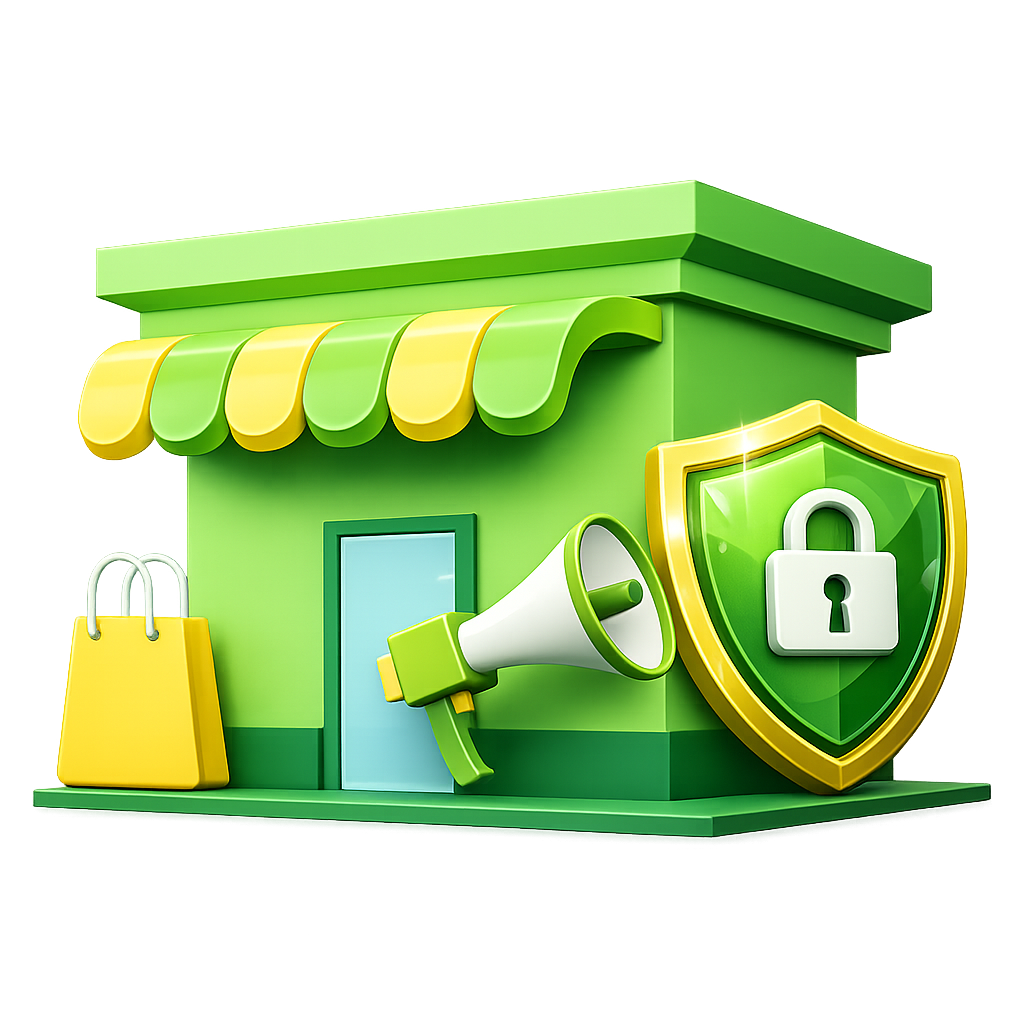
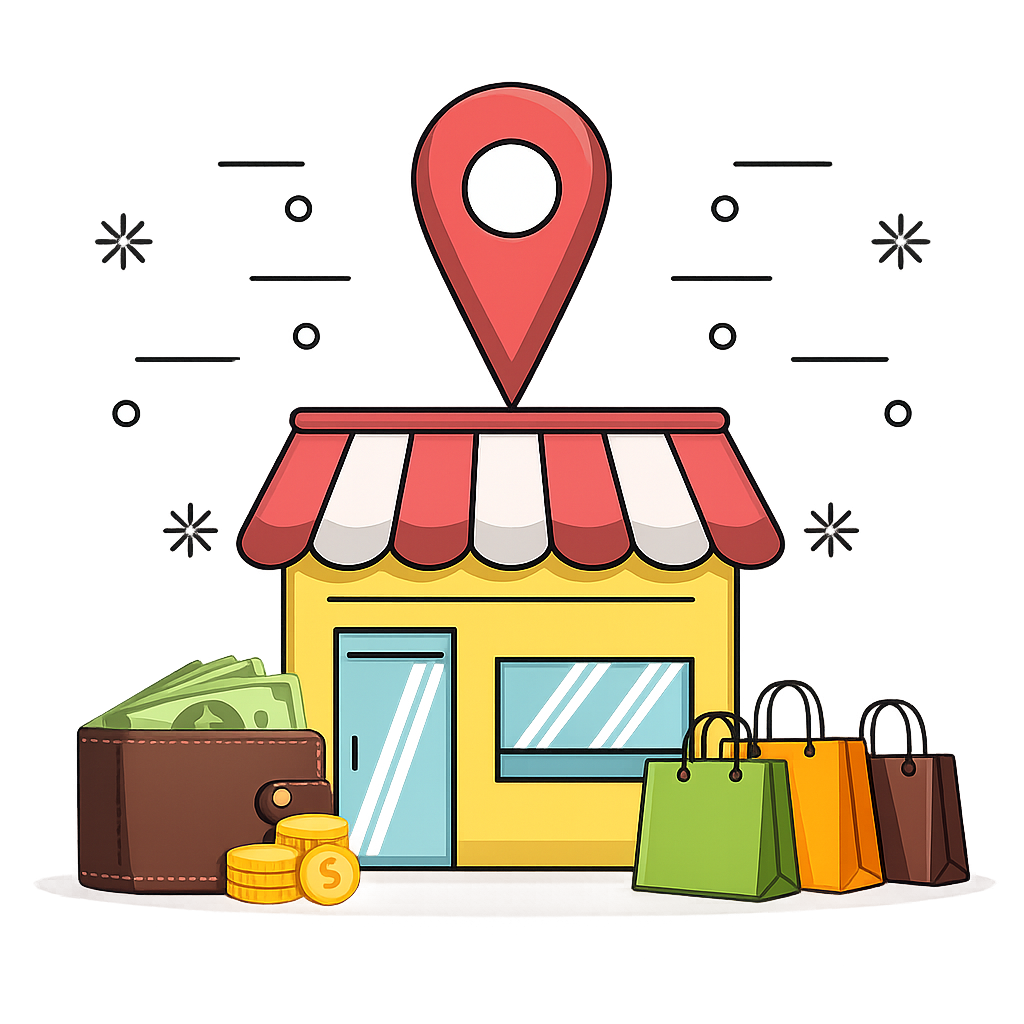
add: refactor on-boarding screen UI and update route middleware navigation

diff --git a/lib/features/on_boarding/presentation/view/screens/on_boarding_screen.dart b/lib/features/on_boarding/presentation/view/screens/on_boarding_screen.dart
@@ -1,10 +1,15 @@
 import 'package:flutter/material.dart';
+import 'package:flutter_screenutil/flutter_screenutil.dart';
 import 'package:wafir_mobile/config/constants/shared_preferences_keys.dart';
 import 'package:wafir_mobile/config/dependency_injection.dart';
 import 'package:wafir_mobile/core/resource/manager_assets.dart';
 import 'package:wafir_mobile/core/resource/manager_strings.dart';
 import 'package:wafir_mobile/core/storage/local/shared_preferences_controller.dart';
-import 'package:wafir_mobile/features/on_boarding/presentation/view/widgets/custom_page_view_content.dart';
+import 'package:wafir_mobile/core/resource/manager_colors.dart';
+import 'package:wafir_mobile/core/resource/manager_sizes.dart';
+import 'package:wafir_mobile/core/widgets/custom_button.dart';
+import 'package:wafir_mobile/core/widgets/custom_spacing.dart';
+import 'package:wafir_mobile/features/on_boarding/presentation/view/widgets/custom_dot_indicator.dart';
 import 'package:wafir_mobile/routes/routes.dart';
 
 class OnBoardingScreen extends StatefulWidget {
@@ -15,25 +20,67 @@ class OnBoardingScreen extends StatefulWidget {
 }
 
 class _OnBoardingScreenState extends State<OnBoardingScreen> {
-  late PageController _pageController;
+  final _pages = [
+    (
+      image: ManagerAssets.onBoardingImageOne,
+      title: ManagerStrings.titleOnBoardingOne,
+      subTitle: ManagerStrings.subTitleOnBoardingOne,
+      topText: ManagerStrings.next,
+      bottomText: ManagerStrings.skip,
+    ),
+    (
+      image: ManagerAssets.onBoardingImageTwo,
+      title: ManagerStrings.titleOnBoardingTwo,
+      subTitle: ManagerStrings.subTitleOnBoardingTwo,
+      topText: ManagerStrings.next,
+      bottomText: ManagerStrings.previous,
+    ),
+    (
+      image: ManagerAssets.onBoardingImageThree,
+      title: ManagerStrings.titleOnBoardingThree,
+      subTitle: ManagerStrings.subTitleOnBoardingThree,
+      topText: ManagerStrings.login,
+      bottomText: ManagerStrings.loginAsGuest,
+    ),
+  ];
 
-  @override
-  void initState() {
-    _pageController = PageController(
-      initialPage: 0,
-    );
-    super.initState();
-  }
-
-  @override
-  void dispose() {
-    _pageController.dispose();
-    super.dispose();
-  }
+  int _currentIndex = 0;
 
   void _viewOnBoarding() {
     instance<SharedPreferencesController>()
         .setData(SharedPreferencesKeys.viewOnBoarding, true);
+  }
+
+  void _goNext() {
+    final isLast = _currentIndex == _pages.length - 1;
+    if (isLast) {
+      _viewOnBoarding();
+      Navigator.pushNamedAndRemoveUntil(
+          context, Routes.homeScreen, (route) => false);
+    } else {
+      setState(() {
+        _currentIndex++;
+      });
+    }
+  }
+
+  void _handleHorizontalDrag(DragEndDetails details) {
+    final velocity = details.primaryVelocity ?? 0;
+    if (velocity < 20) {
+      // Swipe left: Next
+      if (_currentIndex < _pages.length - 1) {
+        setState(() {
+          _currentIndex++;
+        });
+      }
+    } else if (velocity > -20) {
+      // Swipe right: Previous
+      if (_currentIndex > 0) {
+        setState(() {
+          _currentIndex--;
+        });
+      }
+    }
   }
 
   @override
@@ -41,73 +88,92 @@ class _OnBoardingScreenState extends State<OnBoardingScreen> {
     return Scaffold(
       appBar: AppBar(
         automaticallyImplyLeading: false,
-        title: const Text(
-          'وافر',
-        ),
+        title: const Text('وافر'),
       ),
-      body: PageView(
-        controller: _pageController,
-        // physics: const NeverScrollableScrollPhysics(),
-        children: [
-          CustomPageViewContent(
-            controller: _pageController,
-            image: ManagerAssets.onBoardingImageOne,
-            title: ManagerStrings.titleOnBoardingOne,
-            subTitle: ManagerStrings.subTitleOnBoardingOne,
-            textTopButton: ManagerStrings.next,
-            textBottomButton: ManagerStrings.skip,
-            functionTopButton: () {
-              _pageController.nextPage(
-                duration: const Duration(milliseconds: 800),
-                curve: Curves.easeIn,
-              );
-            },
-            functionBottomButton: () {
-              _pageController.animateToPage(
-                2,
-                duration: const Duration(milliseconds: 800),
-                curve: Curves.easeIn,
-              );
-            },
-          ),
-          CustomPageViewContent(
-            controller: _pageController,
-            image: ManagerAssets.onBoardingImageTwo,
-            title: ManagerStrings.titleOnBoardingTwo,
-            subTitle: ManagerStrings.subTitleOnBoardingTwo,
-            textTopButton: ManagerStrings.next,
-            textBottomButton: ManagerStrings.previous,
-            functionTopButton: () {
-              _pageController.nextPage(
-                duration: const Duration(milliseconds: 800),
-                curve: Curves.easeIn,
-              );
-            },
-            functionBottomButton: () {
-              _pageController.previousPage(
-                duration: const Duration(milliseconds: 800),
-                curve: Curves.easeOut,
-              );
-            },
-          ),
-          CustomPageViewContent(
-            controller: _pageController,
-            image: ManagerAssets.onBoardingImageThree,
-            title: ManagerStrings.titleOnBoardingThree,
-            subTitle: ManagerStrings.subTitleOnBoardingThree,
-            textTopButton: ManagerStrings.login,
-            textBottomButton: ManagerStrings.loginAsGuest,
-            functionTopButton: () {
-
-              _viewOnBoarding();
-              Navigator.pushReplacementNamed(context, Routes.loginScreen);
-            },
-            functionBottomButton: () {
-              _viewOnBoarding();
-              Navigator.pushReplacementNamed(context, Routes.homeScreen);
-            },
-          ),
-        ],
+      body: GestureDetector(
+        behavior: HitTestBehavior.opaque,
+        onHorizontalDragEnd: _handleHorizontalDrag,
+        child: Column(
+          crossAxisAlignment: CrossAxisAlignment.center,
+          children: [
+            const Spacer(),
+            Image.asset(
+              _pages[_currentIndex].image,
+              alignment: AlignmentDirectional.bottomCenter,
+              height: _currentIndex == _pages.length - 1
+                  ? 360.h
+                  : ManagerHeights.h350,
+            ),
+            const Spacer(),
+            Row(
+              mainAxisAlignment: MainAxisAlignment.center,
+              children: List.generate(_pages.length, (index) {
+                return CustomDotIndicator(isActive: index == _currentIndex);
+              }),
+            ),
+            verticalSpace(ManagerHeights.h20),
+            Container(
+              height: ManagerHeights.h300,
+              padding: EdgeInsetsDirectional.only(
+                start: ManagerWidths.w20,
+                end: ManagerWidths.w20,
+                top: ManagerHeights.h50,
+                bottom: ManagerHeights.h20,
+              ),
+              width: ManagerWidths.infinity,
+              decoration: BoxDecoration(
+                color: ManagerColors.primaryColor,
+                gradient: const LinearGradient(
+                  begin: Alignment.topRight,
+                  end: Alignment.bottomLeft,
+                  colors: [
+                    ManagerColors.primaryColor,
+                    ManagerColors.blackColor,
+                  ],
+                ),
+                borderRadius: BorderRadius.only(
+                  topLeft: Radius.circular(ManagerRadius.r45),
+                  topRight: Radius.circular(ManagerRadius.r45),
+                ),
+                boxShadow: [
+                  BoxShadow(
+                    color: ManagerColors.shadowColor,
+                    blurRadius: 15,
+                    spreadRadius: 2,
+                    offset: const Offset(0, -5),
+                  ),
+                ],
+              ),
+              child: Column(
+                mainAxisAlignment: MainAxisAlignment.start,
+                crossAxisAlignment: CrossAxisAlignment.center,
+                children: [
+                  Text(
+                    _pages[_currentIndex].title,
+                    textAlign: TextAlign.center,
+                    style: Theme.of(context).textTheme.titleLarge,
+                  ),
+                  verticalSpace(ManagerHeights.h10),
+                  Text(
+                    _pages[_currentIndex].subTitle,
+                    textAlign: TextAlign.center,
+                    style: Theme.of(context).textTheme.bodyMedium,
+                  ),
+                  verticalSpace(ManagerHeights.h50),
+                  SizedBox(
+                    width: ManagerWidths.w180,
+                    child: CustomButton(
+                      color: Theme.of(context).colorScheme.secondary,
+                      colorText: ManagerColors.primaryColor,
+                      text: _pages[_currentIndex].topText,
+                      onPressed: _goNext,
+                    ),
+                  ),
+                ],
+              ),
+            ),
+          ],
+        ),
       ),
     );
   }

diff --git a/lib/core/middleware/route_middleware.dart b/lib/core/middleware/route_middleware.dart
@@ -13,7 +13,7 @@ class RouteMiddleware {
         false) {
       return Routes.onBoardingScreen;
     } else {
-      return Routes.loginScreen;
+      return Routes.settingScreen;
     }
   }
 }